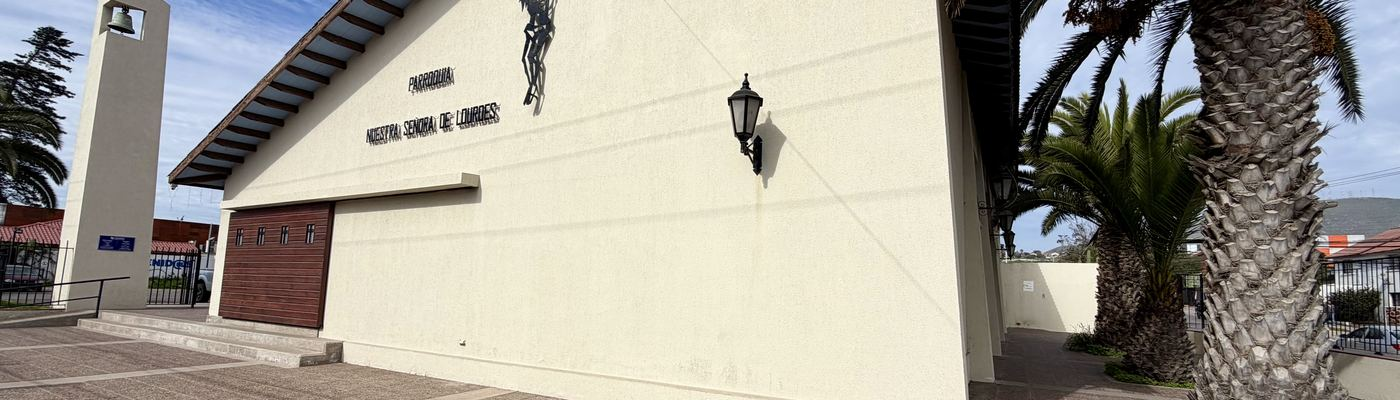
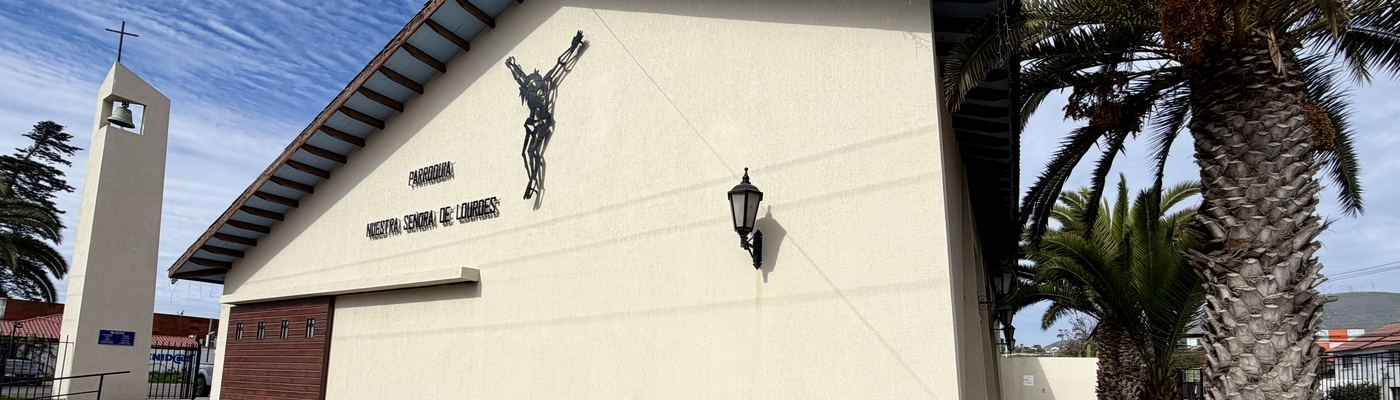
En Horarios, el Cristo del frontis deja de quedar cortado
La banda de la ficha de la parroquia estaba encuadrada demasiado abajo y le
cortaba la cabeza y los brazos al Cristo. El recorte sube de 0,47 a 0,38 de la
altura del original: ahora entra la figura entera, y de paso el campanario con
su cruz.

En el teléfono el problema era peor y de otra naturaleza. Esa ficha ocupa dos
columnas en escritorio, y por eso su foto es una banda de 3,5:1; pero bajo 960px
vuelve a una sola columna, la banda queda en 339x97 y el Cristo se convierte en
una marca de dos milímetros. Ahora <picture> entrega ahí un archivo de 920x600 y
el CSS le devuelve la proporción de las demás fichas, así que se ve el frontis
completo.

Es el único lugar del sitio con dos archivos para la misma fotografía; queda
anotado por si aparece otra ficha ancha.

diff --git a/sitio/assets/css/sitio.css b/sitio/assets/css/sitio.css
@@ -630,6 +630,7 @@ img.ficha__foto { width: 100%; height: 100%; object-fit: contain; padding: 12px;
 .templo__foto { width: 100%; height: auto; aspect-ratio: 46 / 30; object-fit: cover; }
 /* Vale también para el marcador <div class="foto">, que trae alto fijo. */
 div.templo__foto { display: flex; }
+.templo picture { display: block; }
 /* La ficha de la parroquia ocupa las dos columnas, así que su foto es
    una banda más ancha que la de las capillas. */
 .templo--matriz .templo__foto { aspect-ratio: 1400 / 400; }
@@ -924,7 +925,11 @@ img.capilla__foto { width: 100%; height: min(300px, 58vw); object-fit: cover; }
   .capilla, .capilla--invertida { grid-template-columns: 1fr; gap: 24px; }
   .capilla--invertida .capilla__foto { order: 0; }
 
+  /* La ficha de la parroquia deja de ocupar dos columnas, así que su foto
+     tampoco es ya una banda: pasa a la proporción de las demás y muestra
+     el frontis entero, con el Cristo. El archivo lo cambia <picture>. */
   .templo--matriz { grid-column: span 1; }
+  .templo--matriz .templo__foto { aspect-ratio: 46 / 30; }
 
   .pie__rejilla { grid-template-columns: 1fr 1fr; gap: 36px; }
   .pie__rejilla > :first-child { grid-column: span 2; }

diff --git a/sitio/horarios.html b/sitio/horarios.html
@@ -163,7 +163,10 @@
       <div class="rejilla rejilla--2">
 
         <article class="templo templo--matriz">
-          <img class="templo__foto" src="assets/img/templo-parroquia-banda.jpg" alt="Fachada de la parroquia con su campanario y las palmeras del atrio" width="1400" height="400">
+          <picture>
+            <source media="(max-width: 960px)" srcset="assets/img/templo-parroquia.jpg" width="920" height="600">
+            <img class="templo__foto" src="assets/img/templo-parroquia-banda.jpg" alt="Fachada de la parroquia con el Cristo del frontis, el campanario y las palmeras del atrio" width="1400" height="400">
+          </picture>
           <div class="templo__cuerpo">
             <p class="templo__etiqueta">Parroquia</p>
             <h3 class="templo__nombre">Parroquia Nuestra Señora de Lourdes</h3>

diff --git a/CLAUDE.md b/CLAUDE.md
@@ -254,8 +254,14 @@ de proporción muy distinta**:
 
 | Página | Hueco | Se exporta a |
 |---|---|---|
-| Capillas | 460×300 (relación 1,53) | 920×600 |
-| Horarios | 688×170 (relación 4,05) | 1376×340 |
+| Capillas y Horarios | relación 46/30 | 920×600 |
+| Horarios · ficha de la parroquia | banda de 1400×400 en escritorio | 1400×400 y 920×600 |
+
+La ficha de la parroquia ocupa las dos columnas y por eso lleva **banda ancha**,
+pero bajo 960px vuelve a una columna y esa banda deja el Cristo del frontis en
+una franja. Ahí `<picture>` cambia al archivo de 920×600, y el CSS le devuelve
+la proporción 46/30. **Es el único sitio con dos archivos para la misma foto**:
+si se agrega otra ficha ancha, conviene repetir el patrón.
 
 La banda de Horarios es tan apaisada que no cabe una torre entera: hay que elegir
 qué franja se ve. Para eso está `herramientas/recortar-fotos.py`, que hace los
